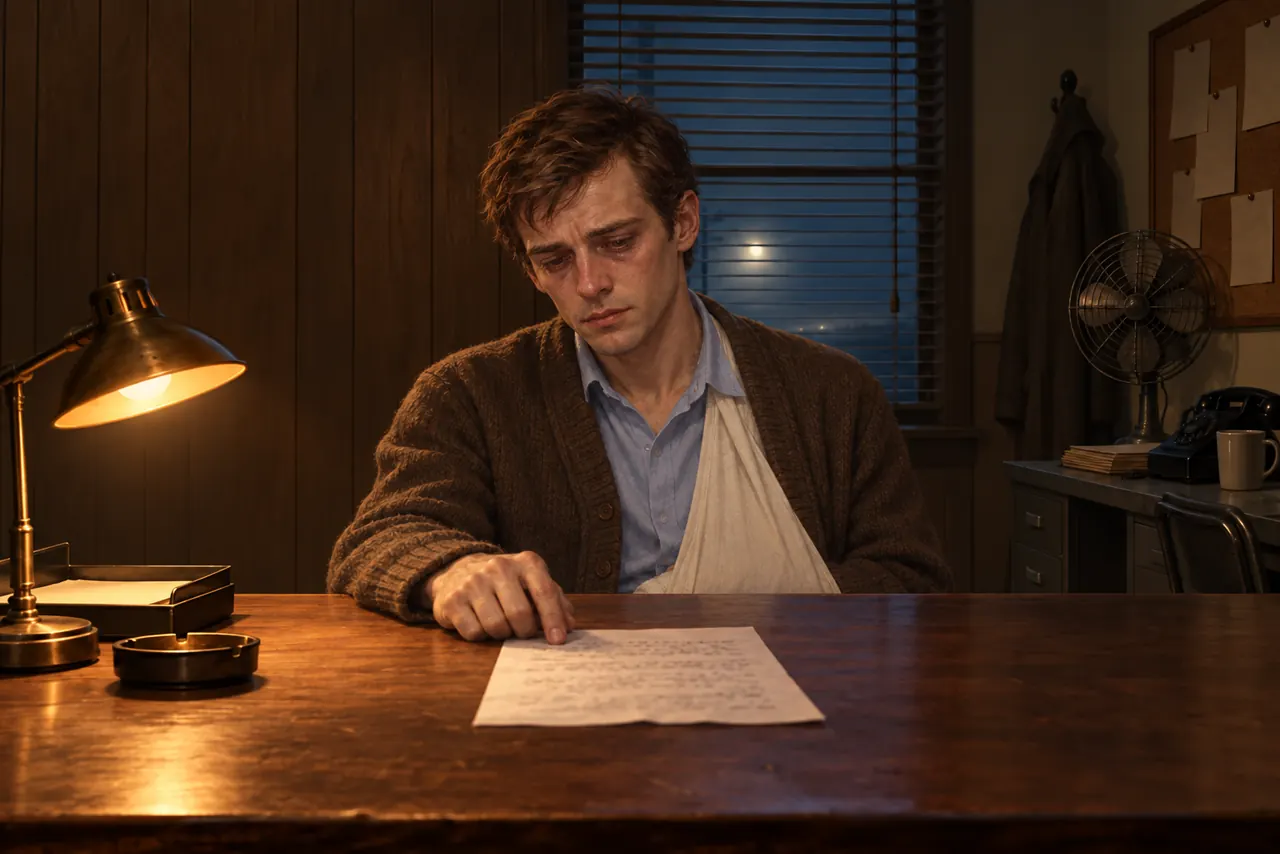
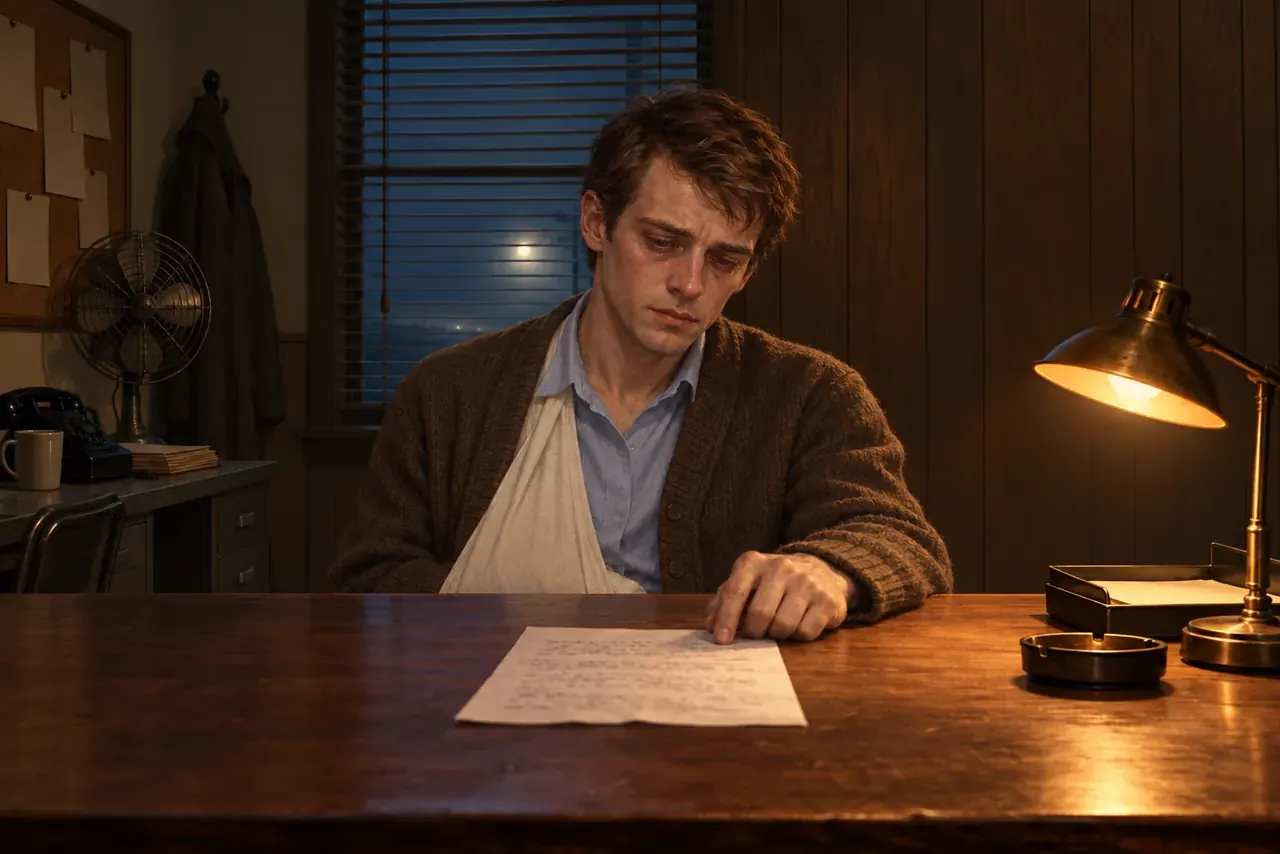
CASE 05: Dugan's recall painting has the sling on his right arm, as the hospital record says
The records give a right clavicle fracture and a right upper-arm wound (r_hospital, his intro 「붕대 감은 오른쪽 어깨」); the painting had the sling on his left arm. Mirrored (no lettering in the picture), manifest hash updated.

diff --git a/img/manifest.js b/img/manifest.js
@@ -209,7 +209,7 @@ window.MG.images = {
   "c05/scene_p_brennan_end": "img/c05/scene_p_brennan_end.webp?v=a22ee067",
   "c05/scene_p_brennan_flustered": "img/c05/scene_p_brennan_flustered.webp?v=a7e4801c",
   "c05/scene_p_coyle_sad": "img/c05/scene_p_coyle_sad.webp?v=cbe2d995",
-  "c05/scene_p_dugan_sad": "img/c05/scene_p_dugan_sad.webp?v=d1233cf0",
+  "c05/scene_p_dugan_sad": "img/c05/scene_p_dugan_sad.webp?v=8b26e595",
   "c05/scene_p_lowell_surprised": "img/c05/scene_p_lowell_surprised.webp?v=e42c3786",
   "c05/scene_p_pell_angry": "img/c05/scene_p_pell_angry.webp?v=1ae7890b",
   "c05/sketch": "img/c05/sketch.webp?v=5f76bfcb",
